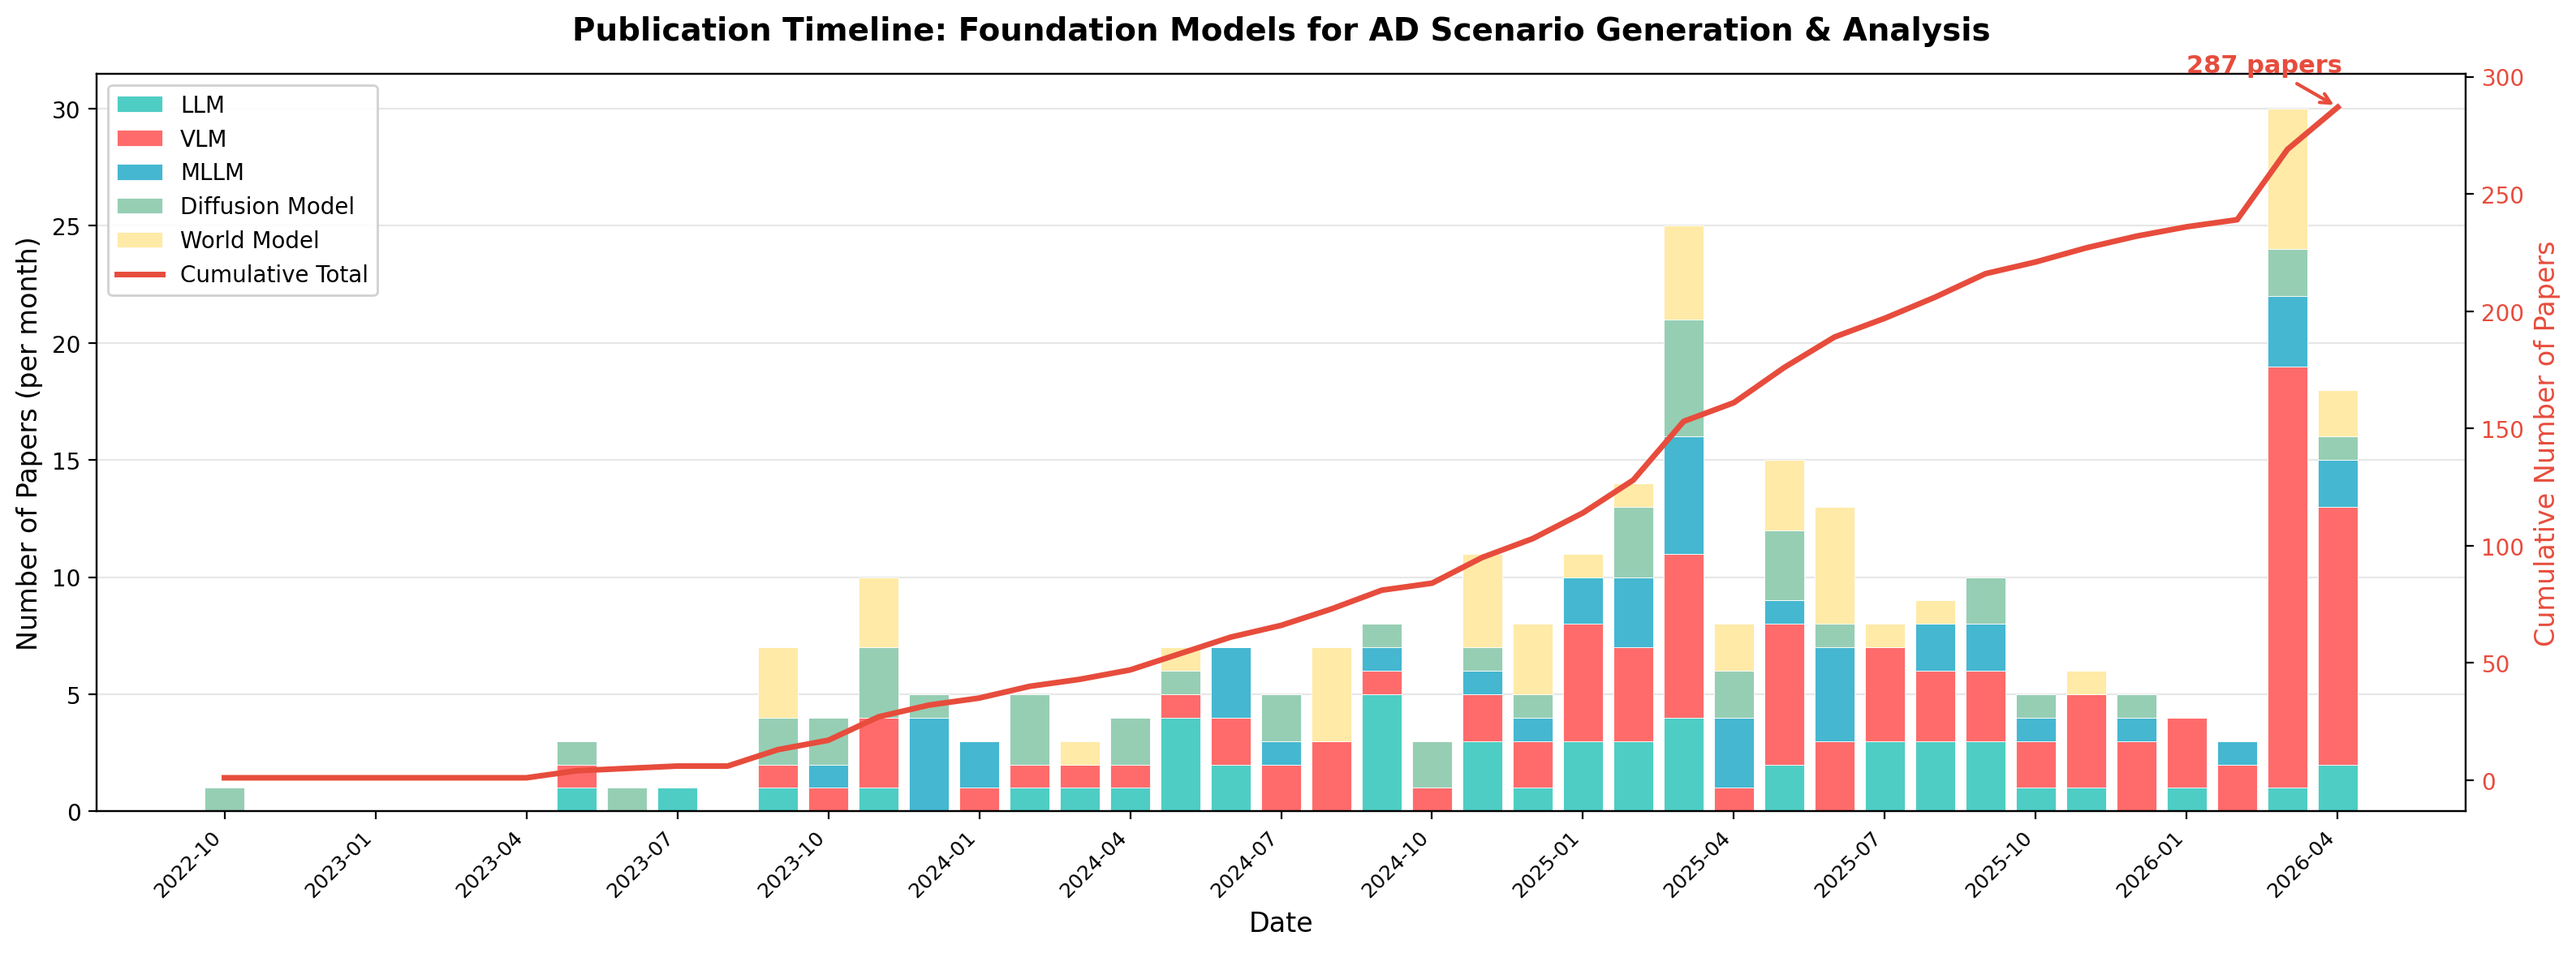
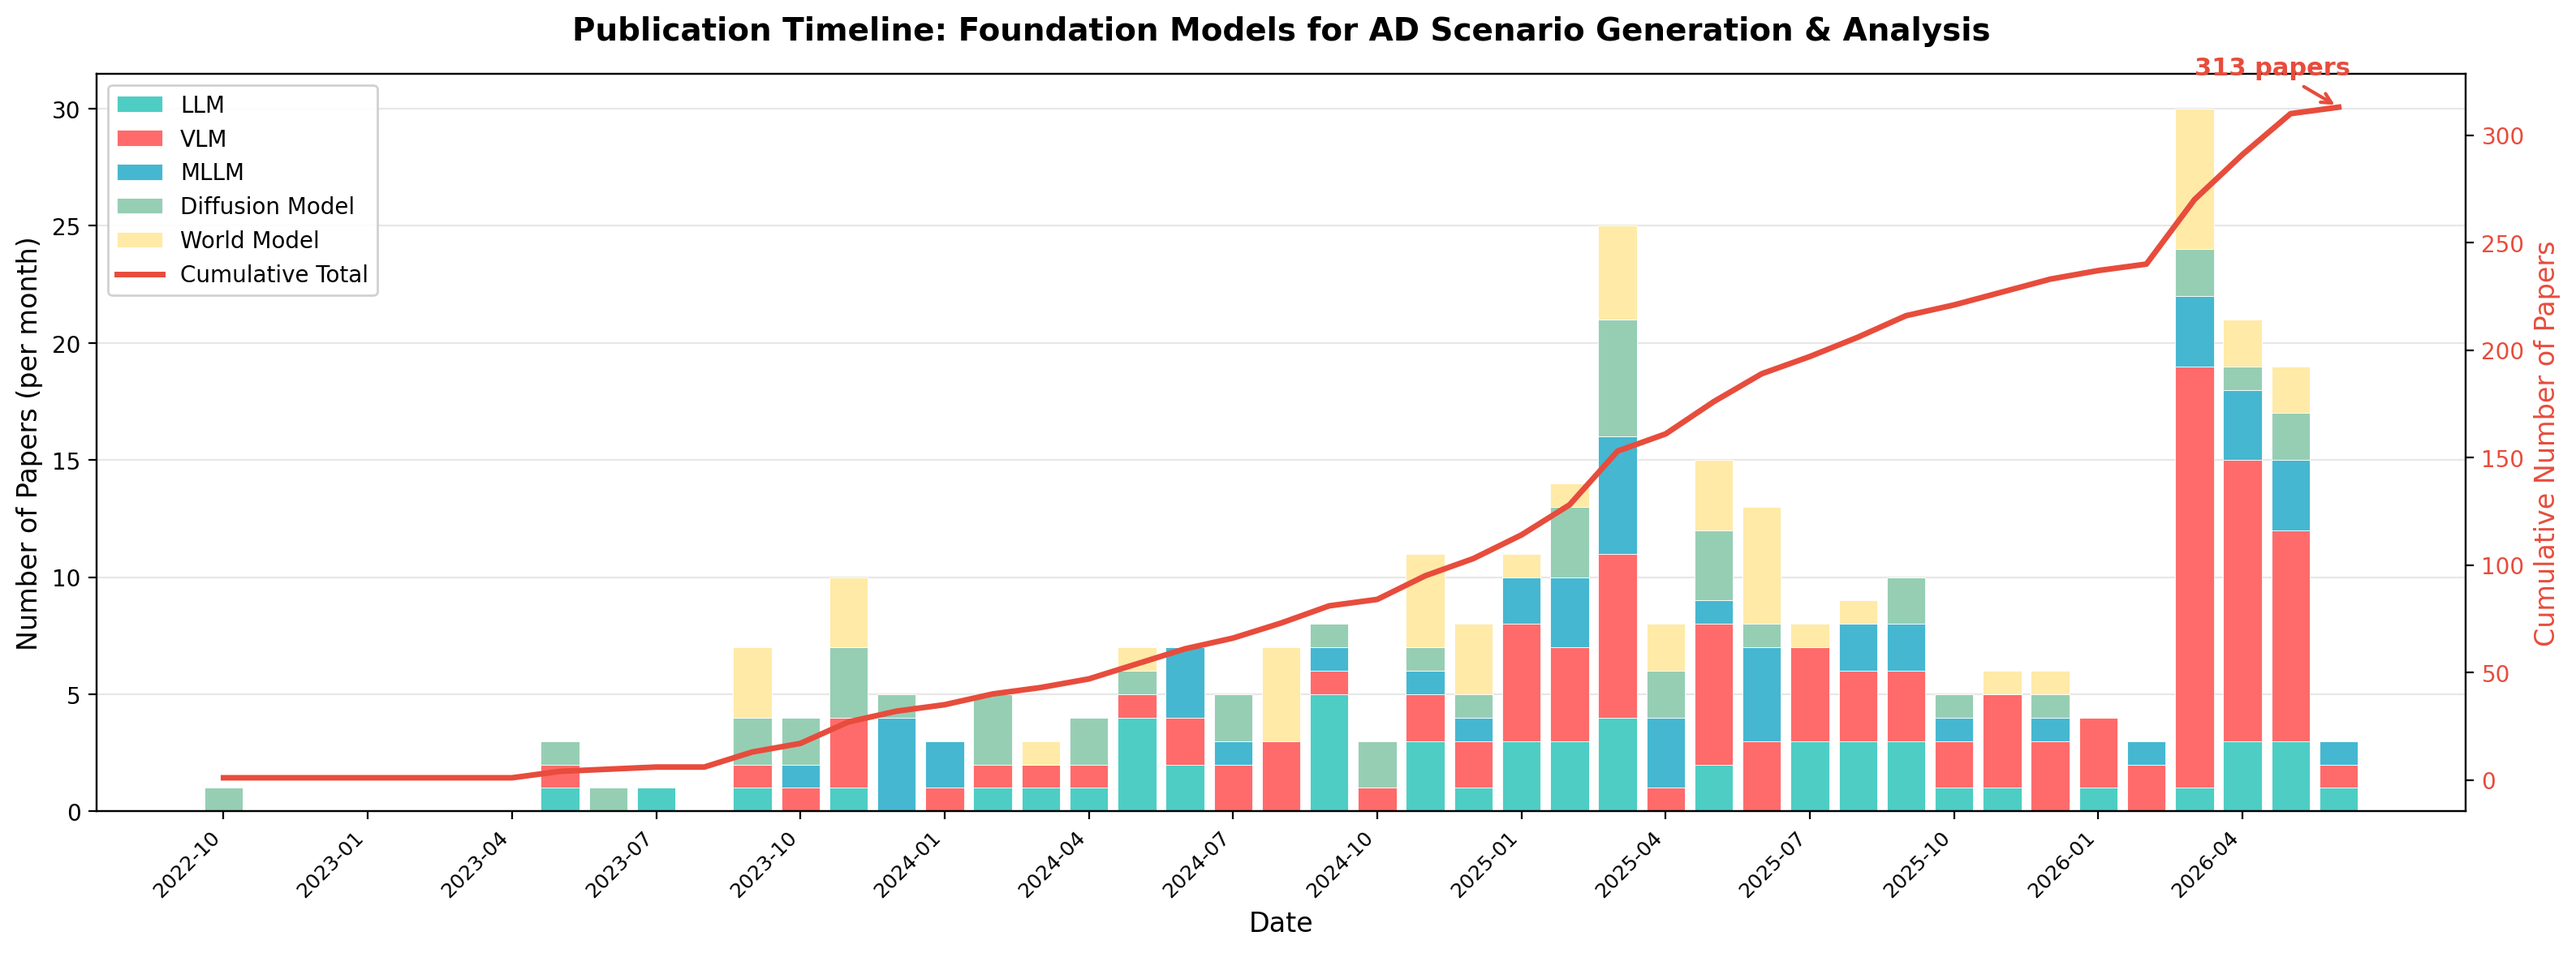
Add 26 new papers (7 generation + 19 analysis) from May 2026 and regenerate timeline

diff --git a/README.md b/README.md
@@ -19,6 +19,7 @@ This repository will collect research, implementations, and resources related to
 <img src="Assets/paper_timeline.png" width="100%" height="auto"/>
 </p>
 
+- **May 2026** – Added **7 new papers** on scenario generation* and **19 new papers** on scenario analysis*.
 - **Apr. 2026** – Added **5 new papers** on scenario generation* and **13 new papers** on scenario analysis*.
 - **Mar. 2026** – Added **10 new papers** on scenario generation* and **11 new papers** on scenario analysis*.
 - **Feb. 2026** – Added **4 new papers** on scenario generation* and **19 new papers** on scenario analysis*.
@@ -139,6 +140,9 @@ The figure illustrates the evolution of foundation models. **LLMs** (e.g., BERT,
 | [Learning from Risk: LLM-Guided Generation of Safety-Critical Scenarios with Prior Knowledge](https://arxiv.org/pdf/2511.20726) | 2025-11 | arXiv |  [GitHub](https://github.com/echoleaeperw/LRF) | - | 0 |
 | [AnchorDrive: LLM Scenario Rollout with Anchor-Guided Diffusion Regeneration for Safety-Critical Scenario Generation](https://arxiv.org/pdf/2603.02542) | 2026-03 | arXiv |  - | - | 0 |
 | [TRACE: Topology-aware Reconstruction of Accidents in CARLA for AV Evaluation](https://arxiv.org/abs/2604.22068) | 2026-04 | FSE 2026 | [GitHub](https://github.com/NahianSalsabil/carla-benchmark) | API | 0 |
+| [Traffic Scenario Orchestration from Language via Constraint Satisfaction](https://arxiv.org/abs/2605.06966) | 2026-05 | arXiv | - | - | 0 |
+| [PCASim: Promptable Closed-loop Adversarial Simulation for Urban Traffic Environment](https://arxiv.org/abs/2605.15654) | 2026-05 | arXiv | [Project](https://zhenhaooo.github.io/PCASim.github.io/) | - | 0 |
+| [TrafficAlign: Aligning Large Language Models for Traffic Scenario Generation](https://github.com/TrafficComposer/TrafficAlign) | 2026-06 | CVPR 2026 | [GitHub](https://github.com/TrafficComposer/TrafficAlign) | - | 0 |
 </details>
 
 <details open>
@@ -157,6 +161,8 @@ The figure illustrates the evolution of foundation models. **LLMs** (e.g., BERT,
 | [AgentDrive: An open benchmark suite for agentic AI reasoning in autonomous systems](https://arxiv.org/abs/2601.16964) | 2026-01 | arXiv |  [GitHub](https://github.com/maferrag/AgentDrive) | - | 0 |
 | [LLM-MLFFN: Multi-Level Autonomous Driving Behavior Feature Fusion via Large Language Model](https://arxiv.org/abs/2603.02528) | 2025-03 | arXiv | - |  - | 0 |
 | [Towards Lawful Autonomous Driving: Deriving Scenario-Aware Driving Requirements from Traffic Laws and Regulations](https://arxiv.org/abs/2604.24562) | 2026-04 | arXiv | - | - | 0 |
+| [SwarmDrive: Semantic V2V Coordination for Latency-Constrained Cooperative Autonomous Driving](https://arxiv.org/abs/2604.22852) | 2026-04 | arXiv | - | - | 0 |
+| [Pedestrian-Aware LLM-Driven Behavioral Planning for Autonomous Vehicles](https://arxiv.org/abs/2605.16858) | 2026-05 | IEEE ITSC 2026 | - | - | 0 |
 </details>
 
 ## 🌟 Vision-Language Models for Autonomous Driving
@@ -276,6 +282,17 @@ The figure illustrates the evolution of foundation models. **LLMs** (e.g., BERT,
 | [EgoDyn-Bench: Evaluating Ego-Motion Understanding in Vision-Centric Foundation Models for Autonomous Driving](https://arxiv.org/abs/2604.22851) | 2026-04 | arXiv | - | API | 0 |
 | [Zoom In, Reason Out: Efficient Far-field Anomaly Detection in Expressway Surveillance Videos via Focused VLM Reasoning Guided by Bayesian Inference (VIBES)](https://arxiv.org/abs/2604.23724) | 2026-04 | arXiv | - | RTX4090 | 0 |
 | [VLM-VPI: A Vision-Language Reasoning Framework for Improving Automated Vehicle-Pedestrian Interactions](https://arxiv.org/abs/2604.23934) | 2026-04 | arXiv | - | API | 0 |
+| [HiDrive: A Closed-Loop Benchmark for High-Level Autonomous Driving](https://arxiv.org/abs/2605.09972) | 2026-05 | arXiv | [GitHub](https://github.com/VDIGPKU/HiDrive) | - | 0 |
+| [Bench2Drive-VL: Benchmarks for Closed-Loop Autonomous Driving with Vision-Language Models](https://arxiv.org/abs/2604.01259) | 2026-04 | arXiv | [GitHub](https://github.com/Thinklab-SJTU/Bench2Drive-VL) | - | 0 |
+| [Bridging Structure and Language: Graph-Based Visual Reasoning for Autonomous Road Understanding](https://arxiv.org/abs/2605.20942) | 2026-05 | arXiv | - | - | 0 |
+| [C-CoT: Counterfactual Chain-of-Thought with Vision-Language Models for Safe Autonomous Driving](https://arxiv.org/abs/2605.10744) | 2026-05 | arXiv | - | - | 0 |
+| [D2-V2X: Depth-Driven Cooperative V2X Reasoning for Autonomous Driving](https://arxiv.org/abs/2605.24098) | 2026-05 | arXiv | [GitHub](https://github.com/KevinRichard1/D2-V2X) | - | 0 |
+| [DRIVESPATIAL: A Benchmark for Spatiotemporal Intelligence in VLMs for Autonomous Driving](https://arxiv.org/abs/2605.23176) | 2026-05 | NeurIPS 2026 | [Project](https://uark-aicv.github.io/DriveSpatial/) | - | 0 |
+| [PEDESTRIANQA: A Benchmark for Vision-Language Models on Pedestrian Intention and Trajectory Prediction](https://arxiv.org/abs/2605.24562) | 2026-05 | arXiv | [GitHub](https://github.com/botmahn/PedestrianQA) | - | 0 |
+| [ReasonBreak: Probing Vulnerabilities in Reasoning-Enabled Vision-Language-Action Models for Autonomous Driving](https://arxiv.org/abs/2605.29114) | 2026-05 | arXiv | - | - | 0 |
+| [Two-Pass Zero-Shot Temporal-Spatial Grounding of Rare Traffic Events in Surveillance Video](https://arxiv.org/abs/2605.01512) | 2026-05 | arXiv | - | - | 0 |
+| [nuReasoning: A Reasoning-Centric Dataset and Benchmark for Long-Tail Autonomous Driving](https://arxiv.org/abs/2605.31572) | 2026-05 | arXiv | [Project](https://nureasoning.github.io/) | - | 0 |
+| [Vision-Language Work Zone Intelligence for Safety-Critical Speed Regulation of Mixed-Autonomy Vehicles in Dynamic Environments](https://arxiv.org/abs/2606.08860) | 2026-06 | arXiv | [GitHub](https://github.com/Mi3-Lab/workzone) | - | 0 |
 </details>
 
 ## 🌟 Multimodal Large Language Models for Autonomous Driving
@@ -337,6 +354,11 @@ The figure illustrates the evolution of foundation models. **LLMs** (e.g., BERT,
 | [ExpressMind: A Multimodal Pretrained Large Language Model for Expressway Operation](https://arxiv.org/abs/2603.16495) | 2026-03 | arXiv | [GitHub](https://wanderhee.github.io/ExpressMind/) | 8xH20 |0 |
 | [AITP: Traffic Accident Responsibility Allocation via Multimodal Large Language Models](https://arxiv.org/abs/2604.20878) | 2026-04 | CVPR 2026 Findings | - | 8xA100 | 0 |
 | [XEmbodied: A Foundation Model with Enhanced Geometric and Physical Cues for Large-Scale Embodied Environments](https://arxiv.org/abs/2604.18484) | 2026-04 | arXiv | - | - | 0 |
+| [V2X-QA: A Comprehensive Reasoning Dataset and Benchmark for MLLMs in Autonomous Driving Across Ego, Infrastructure, and Cooperative Views](https://arxiv.org/abs/2604.02710) | 2026-04 | arXiv | [GitHub](https://github.com/junwei0001/V2X-QA) | - | 0 |
+| [DriveSafe: A Framework for Risk Detection and Safety Suggestions in Driving Scenarios](https://arxiv.org/abs/2605.16892) | 2026-05 | arXiv | - | - | 0 |
+| [Enhancing Multimodal Large Language Models for Safety-Critical Driving Video Analysis](https://arxiv.org/abs/2605.22185) | 2026-05 | arXiv | - | - | 0 |
+| [GuardAD: Safeguarding Autonomous Driving MLLMs via Markovian Safety Logic](https://arxiv.org/abs/2605.10386) | 2026-05 | arXiv | - | - | 0 |
+| [Where Does the Answer Come From? Benchmarking View-Level Visual Evidence Identification in Multi-View MLLMs for Autonomous Driving](https://arxiv.org/abs/2606.09644) | 2026-06 | arXiv | - | - | 0 |
 </details>
 
 ## 🌟 Diffusion Models for Autonomous Driving
@@ -390,6 +412,8 @@ The figure illustrates the evolution of foundation models. **LLMs** (e.g., BERT,
 | [FAR-Drive: Frame-AutoRegressive Video Generation in Closed-Loop Autonomous Driving](https://arxiv.org/abs/2603.14938) | 2026-03 | arXiv | - | - |0 |
 | [Controllable Latent Diffusion for Traffic Simulation](https://arxiv.org/abs/2503.11771) | 2026-03 | arXiv | [GitHub](https://github.com/RoboSafe-Lab/BLM) | - |0 |
 | [ScenarioControl: Vision-Language Controllable Vectorized Latent Scenario Generation](https://arxiv.org/abs/2604.17147) | 2026-04 | arXiv | [Project](https://light.princeton.edu/ScenarioControl) | - | 0 |
+| [DriveCtrl: Conditioned Sim-to-Real Driving Video Generation](https://arxiv.org/abs/2605.15116) | 2026-05 | arXiv | - | L40 | 0 |
+| [AnyScene: Towards Highly Controllable Driving Scene Generation at Anywhere and Beyond](https://arxiv.org/abs/2605.26113) | 2026-05 | arXiv | [Project](https://mind-omni.github.io/) | 8xA100 | 0 |
 </details>
 
 <details open>
@@ -446,6 +470,7 @@ The figure illustrates the evolution of foundation models. **LLMs** (e.g., BERT,
 | [World Model-Based End-to-End Scene Generation for Accident Anticipation in Autonomous Driving](https://arxiv.org/abs/2507.12762) | 2025-07 | Commun Eng  | [GitHub](https://github.com/humanlabmembers/Anticipation-of-Traffic-Accident) | RTX4090 |2 |
 | [HERMES: A Unified Self-Driving World Model for Simultaneous 3D Scene Understanding and Generation](https://arxiv.org/abs/2501.14729) | 2025-08 | ICCV 2025 | [GitHub](https://github.com/LMD0311/HERMES) | 32xH20 |27 |
 | [Driving scenario generation and evaluation using a structured layer representation and foundational models](https://www.arxiv.org/abs/2511.01541v1) | 2025-11 |arXiv | [GitHub](https://github.com/Valgiz/5LMSG) | API |0 |
+| [GaussianDWM: 3D Gaussian Driving World Model for Unified Scene Understanding and Multi-Modal Generation](https://arxiv.org/abs/2512.23180) | 2025-12 | CVPR 2026 | [GitHub](https://github.com/dtc111111/GaussianDWM) | 16xA100 |0 |
 | [VistaGEN: Consistent Driving Video Generation with Fine-Grained Control Using Multiview Visual-Language Reasoning](https://arxiv.org/abs/2603.28353) | 2026-03 |arXiv |  |  |0 |
 | [X-World: Controllable Ego-Centric Multi-Camera World Models for Scalable End-to-End Driving](https://arxiv.org/abs/2603.19979) | 2026-03 |arXiv | [GitHub](https://x-world-1.github.io/)|  |0 |
 | [Toward Physically Consistent Driving Video World Models under Challenging Trajectories](https://arxiv.org/abs/2603.24506) | 2026-03 |arXiv | [GitHub](https://wm-research.github.io/PhyGenesis/) | 48xH20 |0 |
@@ -454,6 +479,8 @@ The figure illustrates the evolution of foundation models. **LLMs** (e.g., BERT,
 | [Bridging Scene Generation and Planning: Driving with World Model via Unifying Vision and Motion Representation](https://arxiv.org/pdf/2603.14948) | 2026-03 |arXiv | [GitHub](https://github.com/TabGuigui/WorldDrive) | 16xA100 |0 |
 | [LMGenDrive: Bridging Multimodal Understanding and Generative World Modeling for End-to-End Driving](https://arxiv.org/abs/2604.08719) | 2026-04 | arXiv | - | - | 0 |
 | [HERMES++: Toward a Unified Driving World Model for 3D Scene Understanding and Generation](https://arxiv.org/abs/2604.28196) | 2026-04 | arXiv | [GitHub](https://github.com/H-EmbodVis/HERMESV2) | - | 0 |
+| [Is Your Driving World Model an All-Around Player? (WorldLens)](https://arxiv.org/abs/2605.10858) | 2026-05 | arXiv | - | - | 0 |
+| [Xiaomi Auto World Model: A Joint World Model Integrating Reconstruction and Generation for Autonomous Driving](https://arxiv.org/abs/2605.18137) | 2026-05 | arXiv | [Project](https://JointWM.github.io) | - | 0 |
 </details>
 
 ## 📊 Datasets Comparison
